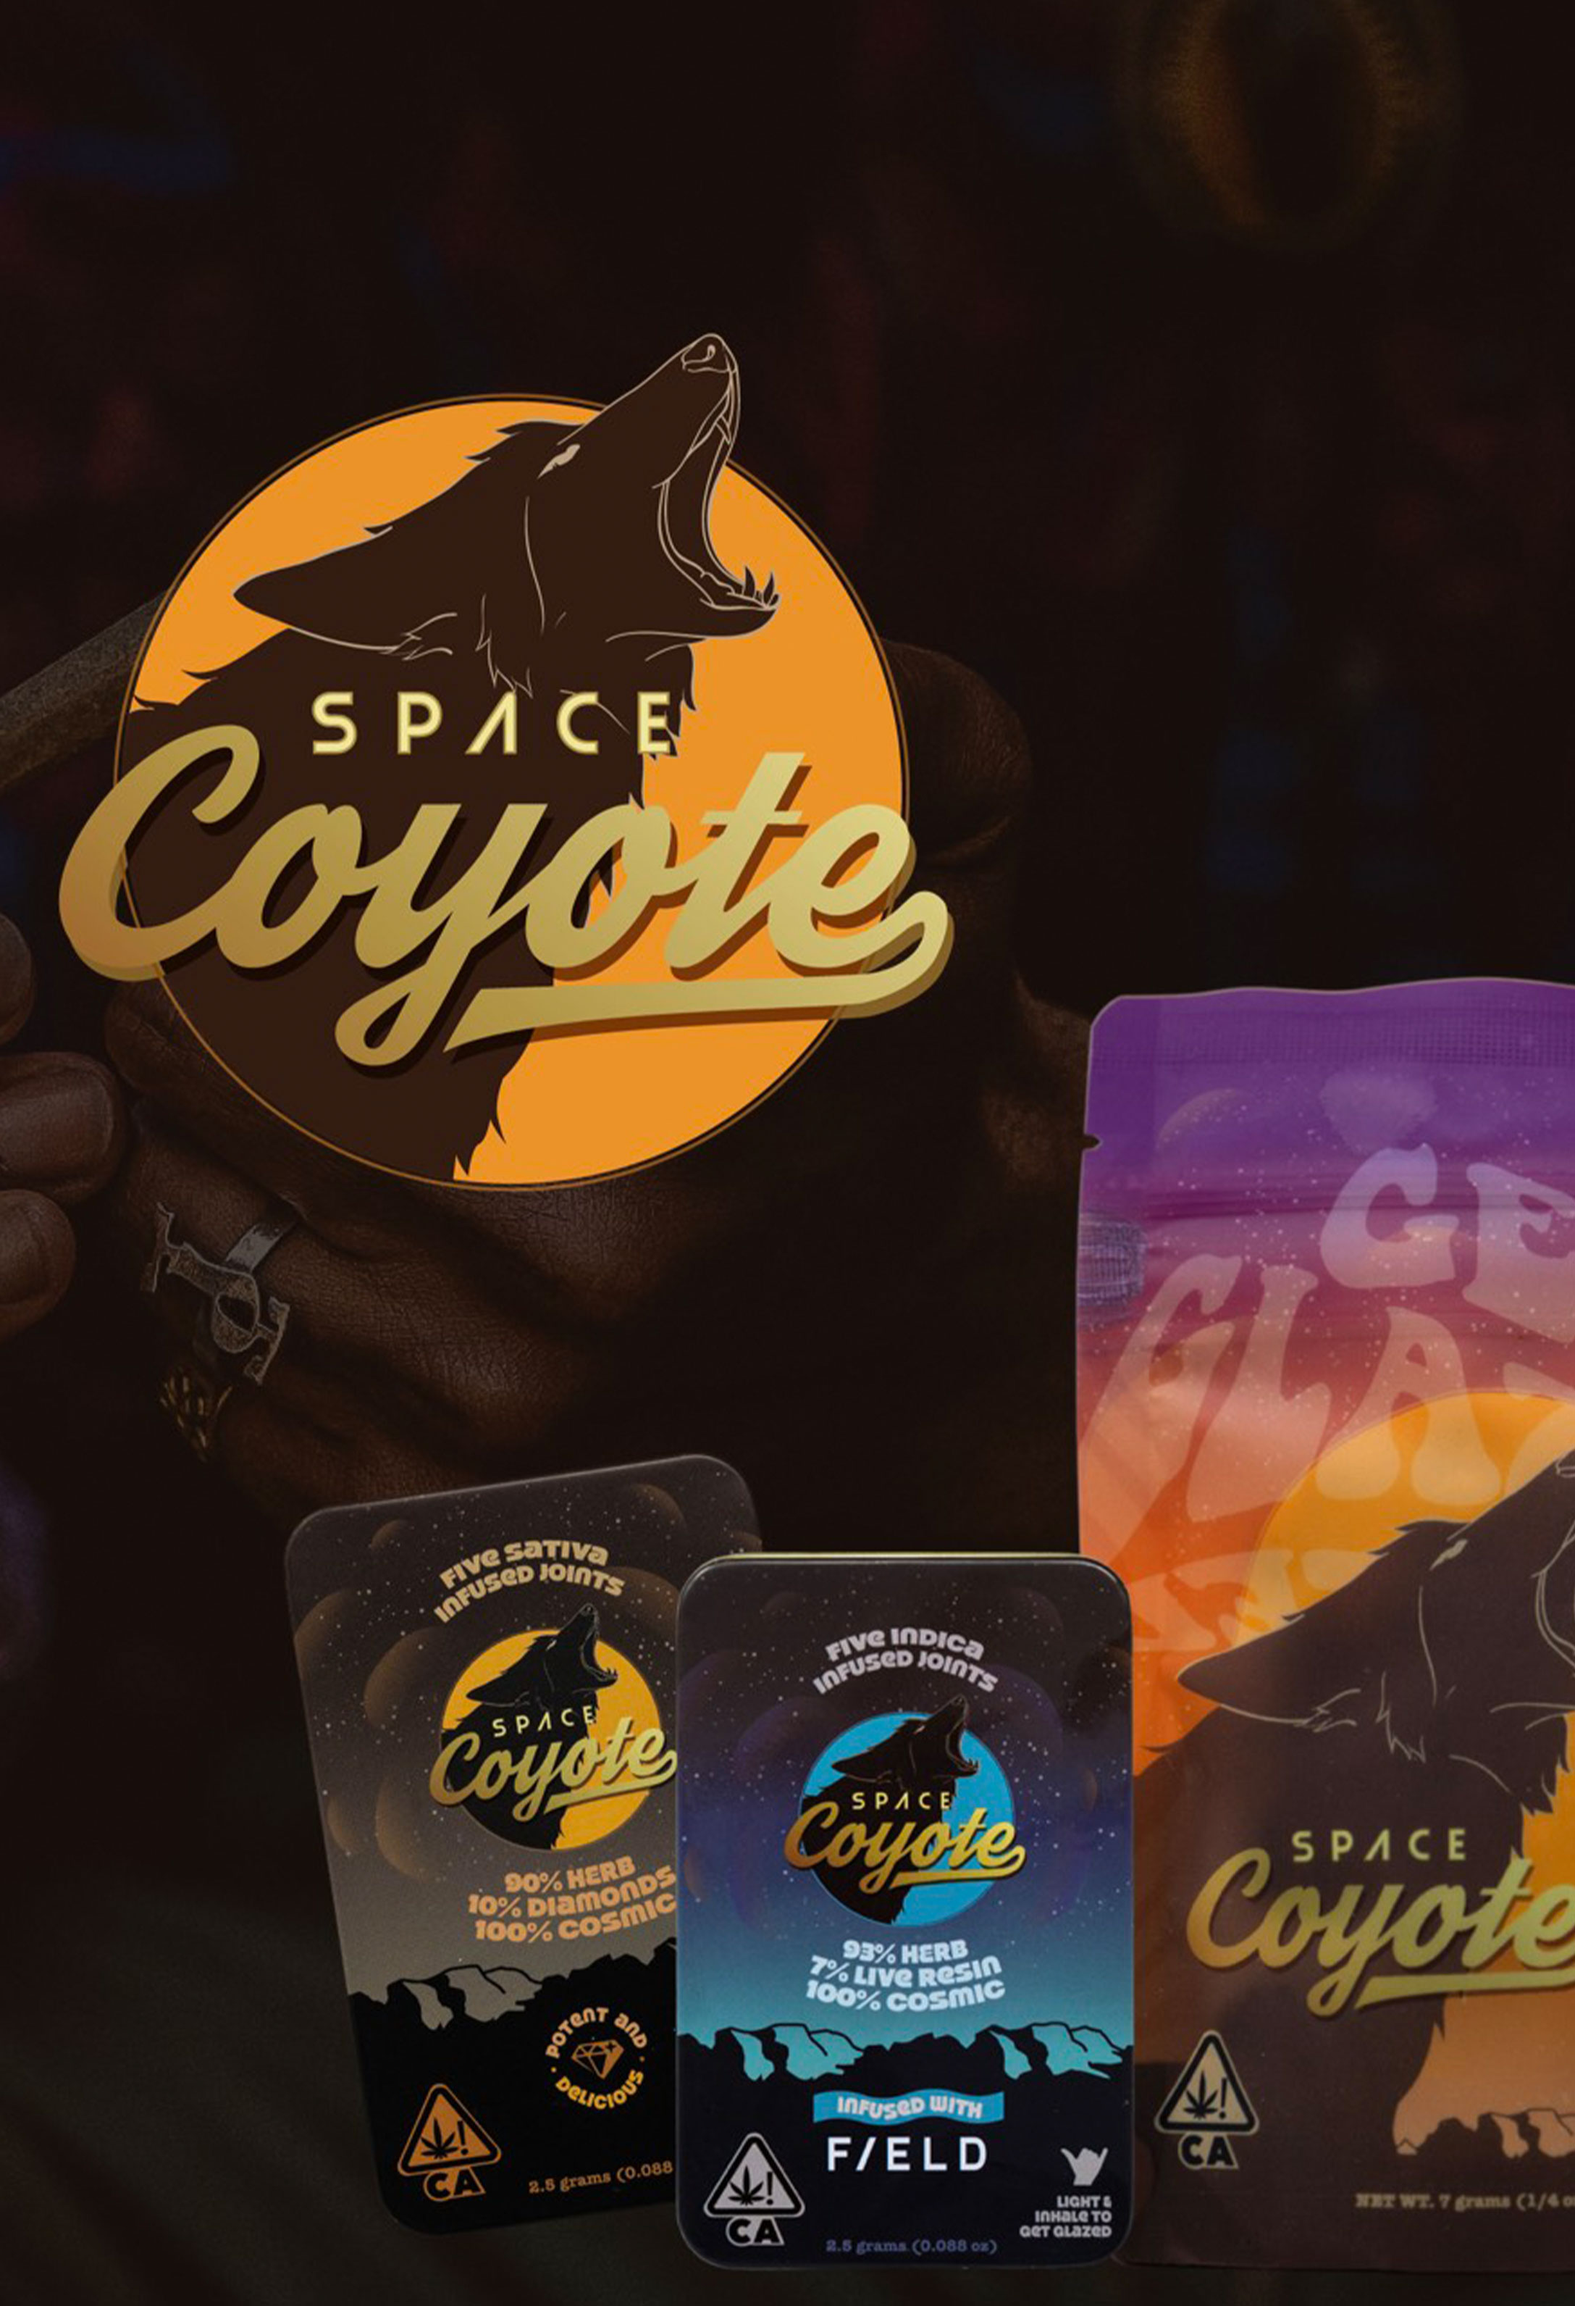
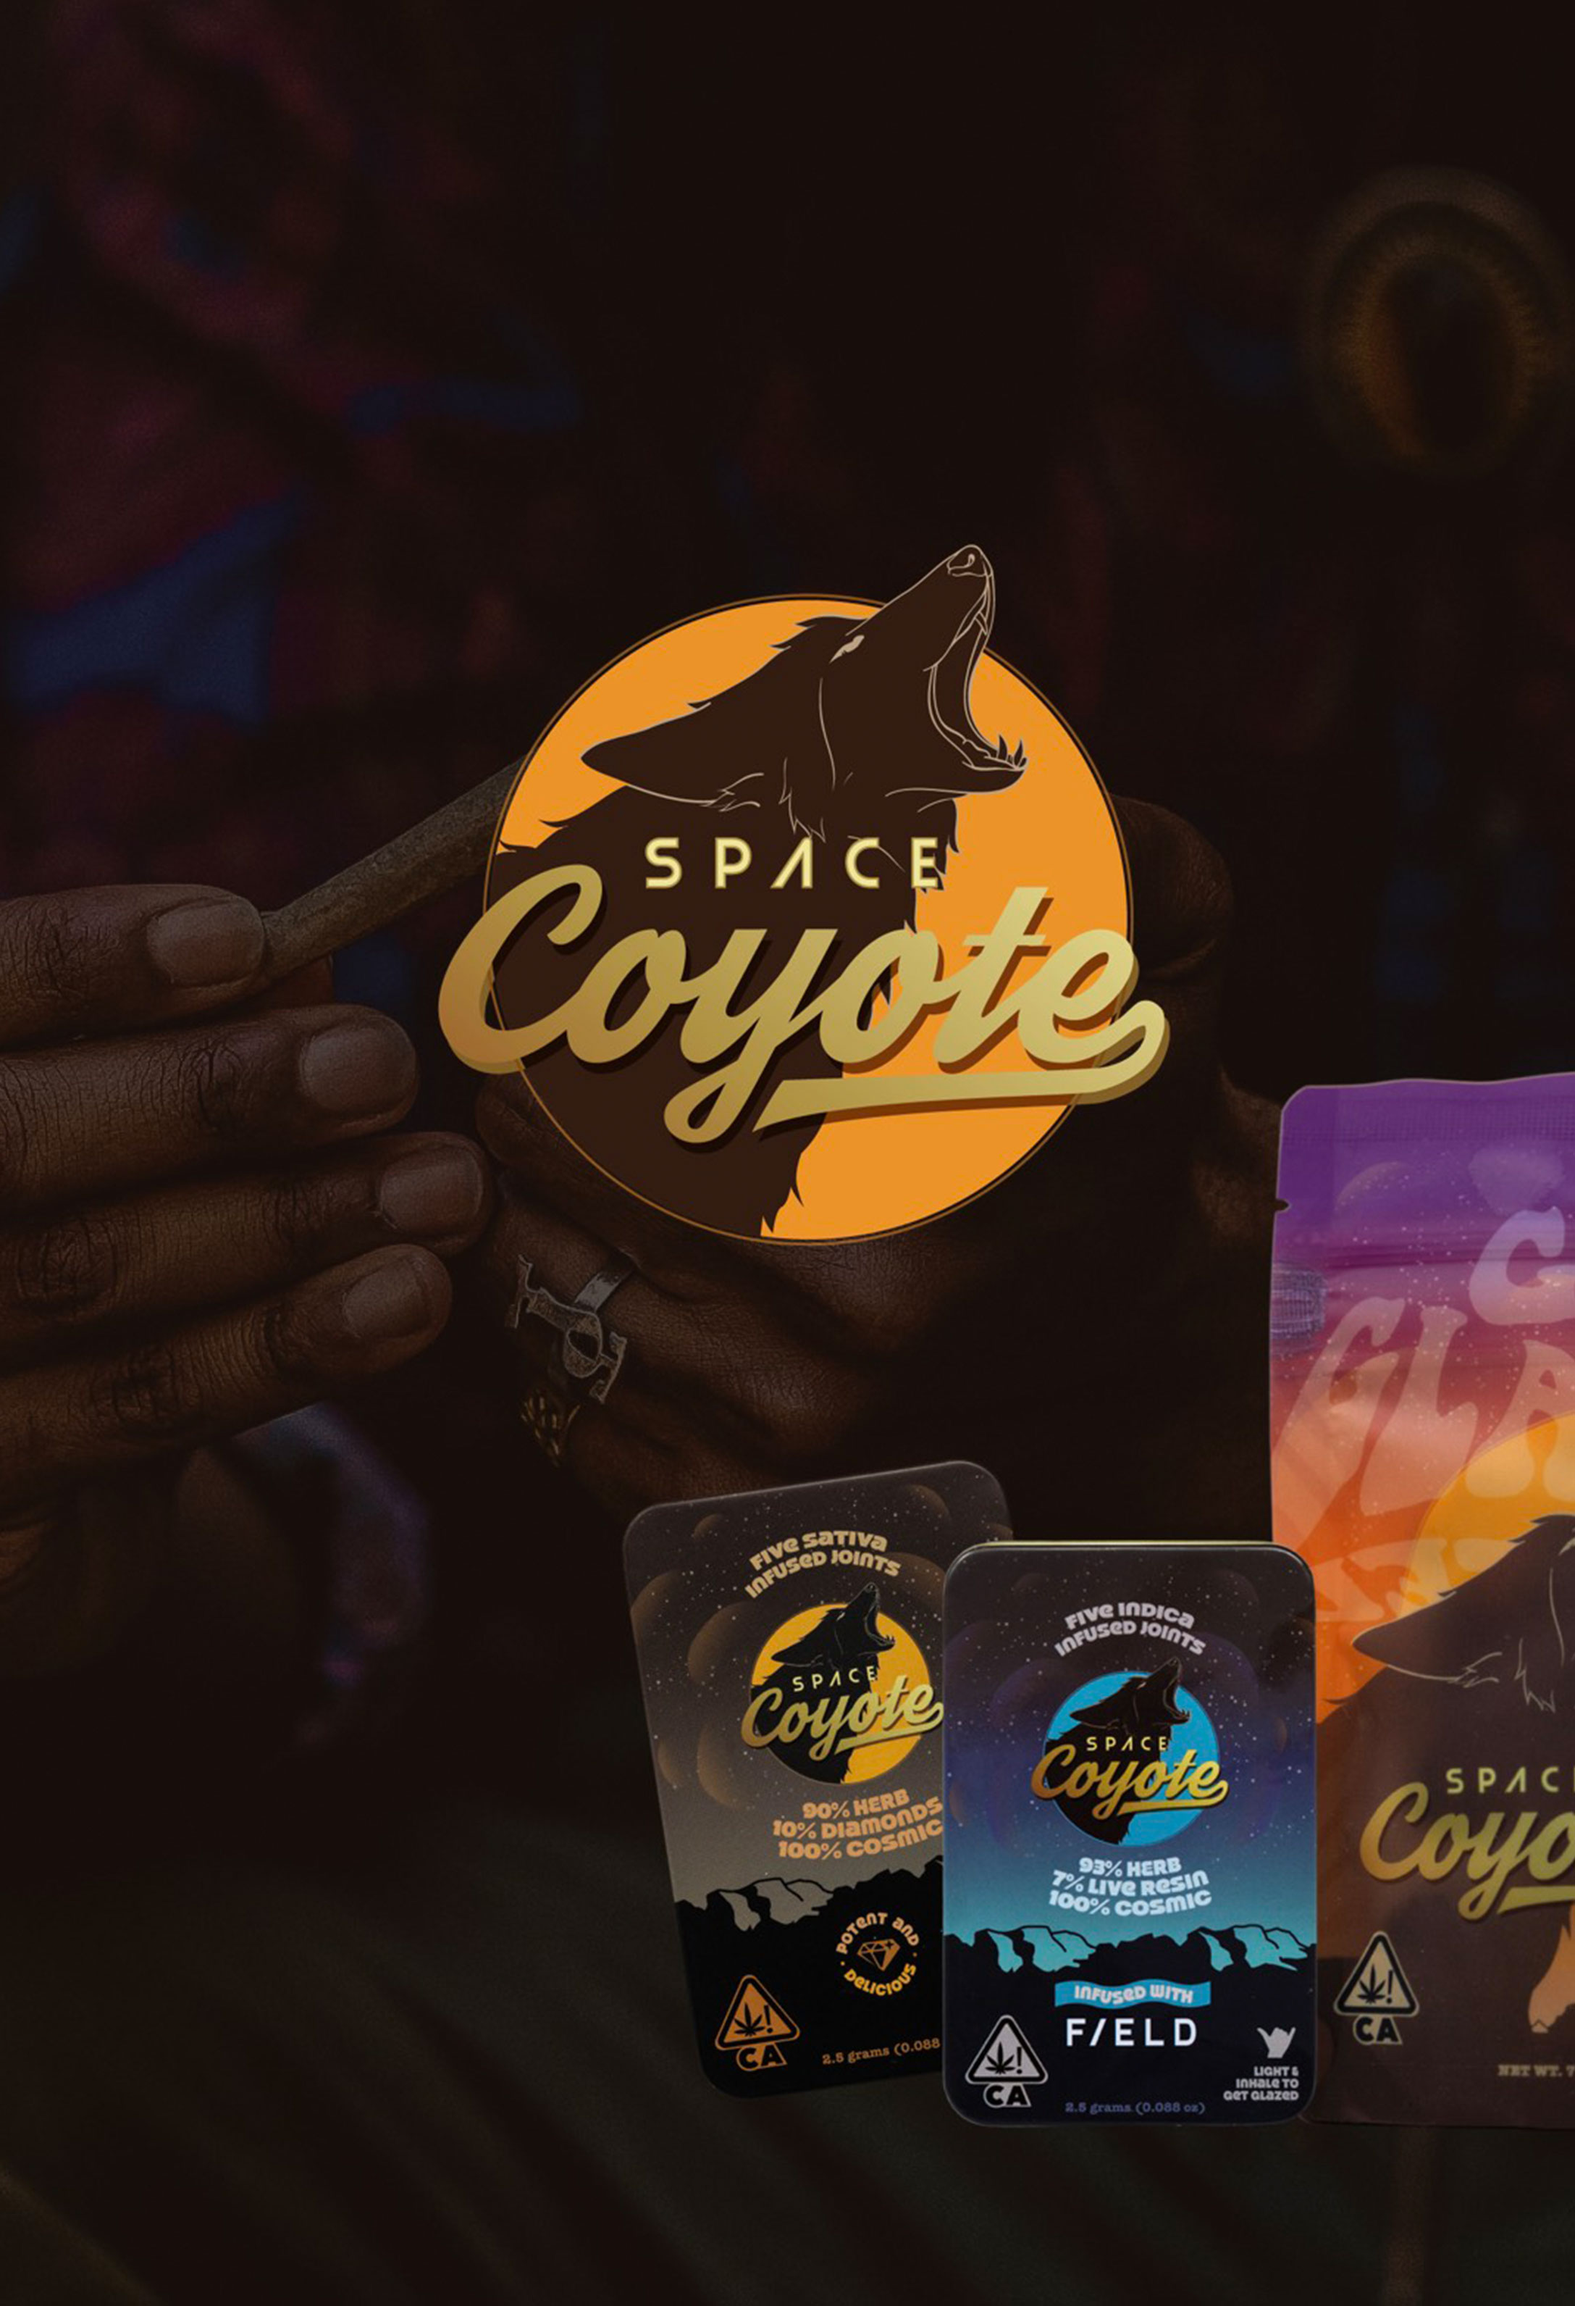
shop button placement

diff --git a/spacecoyote.css b/spacecoyote.css
@@ -105,7 +105,7 @@ section {
 }
 .bottom {
     position: absolute;
-    top: 0;
+    top: 10%;
     left: 0;
     right: 0;
     min-height: 650px;
@@ -128,6 +128,7 @@ section {
     .top,
     .bottom {
         min-height: 500px;
+        top: 35%;
     }
     .top h1 {
         font-size: 3rem;
